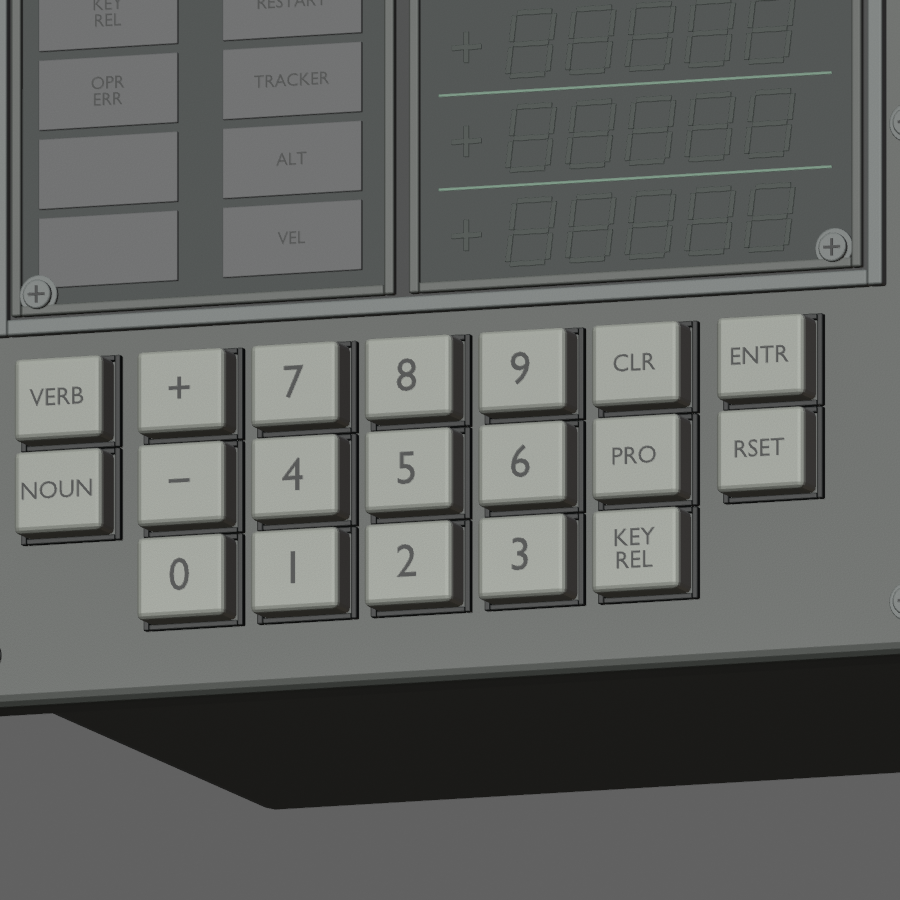
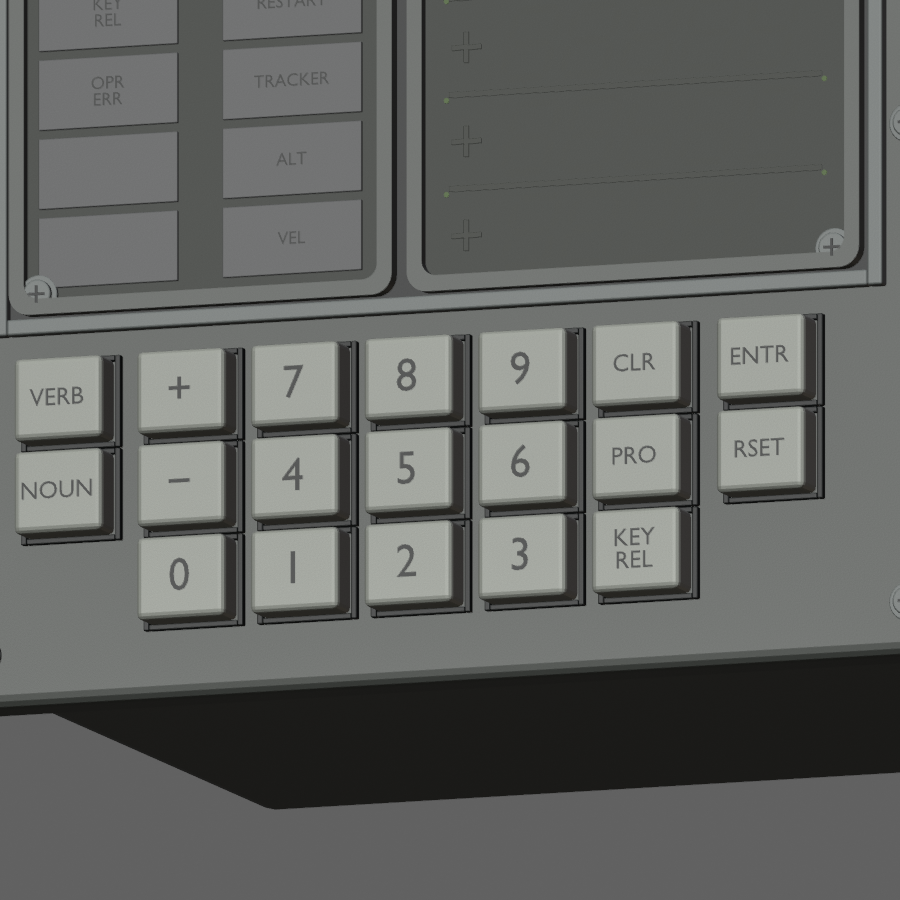
Refine DSKY emissive display and rounded bezels

Changed region(s): [[0.0622, 0.0, 0.9644, 0.3422], [0.0, 0.0, 0.0311, 0.3422], [0.7467, 0.0622, 0.9022, 0.0933]]

diff --git a/Assets/Cockpit/Components/DSKY/build.py b/Assets/Cockpit/Components/DSKY/build.py
@@ -62,16 +62,46 @@ def screw(name,x,y,z,parent):
  # Dark recessed-looking cross; visual approximation, not a certified screw specification.
  for i,sz in enumerate([(.0033,.00055,.00012),(.00055,.0033,.00012)]):
   box(name+'_Recess'+str(i),(x,y,z+.0008),sz,black,parent,.00006)
+def rounded_bezel(name,p,w,h,t,mat,parent):
+ # Continuous cast rim, four rounded corners; no seams between straight rails.
+ loops=[]
+ for z,inset in [(-.001,0),(.002,0),(.002,t),(-.001,t)]:
+  pts=[]; r=.004-inset*.35
+  for cx,cy,a in [(w/2-inset-r,h/2-inset-r,0),(-w/2+inset+r,h/2-inset-r,90),
+                  (-w/2+inset+r,-h/2+inset+r,180),(w/2-inset-r,-h/2+inset+r,270)]:
+   for n in range(9):
+    angle=math.radians(a+n*90/8)
+    pts.append(xyz((cx+r*math.cos(angle),cy+r*math.sin(angle),z)))
+  loops.extend(pts)
+ n=36; faces=[]
+ for a,b in [(0,1),(1,2),(2,3),(3,0)]:
+  for i in range(n):
+   j=(i+1)%n; faces.append((a*n+i,a*n+j,b*n+j,b*n+i))
+ mesh=bpy.data.meshes.new(name+'_Geometry');mesh.from_pydata(loops,[],faces);mesh.update()
+ o=bpy.data.objects.new(name,mesh);bpy.context.collection.objects.link(o)
+ finish(o,name,mat,parent,p)
+ # Recalculate outward normals for this closed ring.
+ bpy.ops.object.select_all(action='DESELECT');o.select_set(True);bpy.context.view_layer.objects.active=o
+ bpy.ops.object.mode_set(mode='EDIT');bpy.ops.mesh.select_all(action='SELECT');bpy.ops.mesh.normals_make_consistent(inside=False);bpy.ops.object.mode_set(mode='OBJECT')
+ return o
+
+def segment(name,sx,sy,length,thick,vertical,parent):
+ # Six-sided EL strokes, tapered ends and deliberate gaps; not rounded LCD bars.
+ a=length/2; b=thick/2
+ pts=[(-a+b,-b),(a-b,-b),(a,0),(a-b,b),(-a+b,b),(-a,0)]
+ if vertical: pts=[(-y,x) for x,y in pts]
+ verts=[xyz((x+sx+.24*(y+sy),y+sy,.0003)) for x,y in pts]
+ mesh=bpy.data.meshes.new(name+'_Geometry'); mesh.from_pydata(verts,[],[tuple(range(6))]);mesh.update()
+ o=bpy.data.objects.new(name,mesh);bpy.context.collection.objects.link(o);o.parent=parent;mesh.materials.append(phosphor)
+ return o
+
 def digit(parent,name,x,y,width=.010,height=.014):
- d=empty(name,parent,(x,y,0)); thick=.001
- positions=[(0,height/2,width-thick,thick),(width/2,height/4,thick,height/2-thick),
- (width/2,-height/4,thick,height/2-thick),(0,-height/2,width-thick,thick),
- (-width/2,-height/4,thick,height/2-thick),(-width/2,height/4,thick,height/2-thick),(0,0,width-thick,thick)]
- for letter,(sx,sy,sw,sh) in zip('ABCDEFG',positions):
-  box(name+'_'+letter,(sx,sy,.00025),(sw,sh,.0003),phosphor,d,.00012)
- for child in d.children:
-  for v in child.data.vertices: v.co.x += .12*v.co.z
-  child.location.x += .12*child.location.z
+ d=empty(name,parent,(x,y,0)); thick=.00155
+ horizontal=width-thick*.35; vertical=height/2-thick*.85
+ for letter,sx,sy,ln,vertical_axis in [('A',0,height/2,horizontal,False),('B',width/2,height/4,vertical,True),
+ ('C',width/2,-height/4,vertical,True),('D',0,-height/2,horizontal,False),
+ ('E',-width/2,-height/4,vertical,True),('F',-width/2,height/4,vertical,True),('G',0,0,horizontal,False)]:
+  segment(name+'_'+letter,sx,sy,ln,thick,vertical_axis,d)
  return d
 
 def build():
@@ -85,11 +115,11 @@ def build():
  steel=material('Fasteners',(.39,.42,.40),.8,.29)
  keys_mat=material('Keycap_ivory',(.72,.74,.65),0,.42)
  ink=material('Key_ink',(.018,.024,.019),0,.6)
- glass=material('Display_dark_filter',(.012,.032,.024),.05,.24)
- legend=material('Face_legend',(.35,.63,.43),0,.55,.20)
+ glass=material('Display_dark_filter',(.020,.032,.014),.12,.20)
+ legend=material('Face_legend',(.12,.25,.018),0,.55,.025)
  lampmat=material('Lamp_unpowered',(.23,.23,.23),0,.85)
- phosphor=material('Segments_unpowered',(.022,.052,.032),0,.48,.02)
- lit=material('EL_green_on',(.20,.85,.42),0,.4,.9)
+ phosphor=material('Segments_unpowered',(.018,.029,.009),0,.48,.005)
+ lit=material('EL_green_on',(.30,.95,.035),0,.38,1.8)
  white_on=material('Status_white_on',(.75,.86,.71),0,.4,.35)
  amber_on=material('Caution_amber_on',(.95,.58,.10),0,.4,.35)
  for m in [lit,white_on,amber_on]: m.use_fake_user=True
@@ -111,8 +141,8 @@ def build():
  frame('DSKY_Display_OuterBezel',(0,0,-.0002),.179,.122,.003,.003,steel,display)
  box('DSKY_Annunciator_Filter',(-.047,0,0),(.075,.112,.001),glass,display,.0015)
  box('DSKY_Numeric_Filter',(.040,0,0),(.088,.112,.001),glass,display,.0015)
- frame('DSKY_AlarmBezel',(-.047,0,.0008),.077,.115,.002,.002,face_mat,display)
- frame('DSKY_NumericBezel',(.040,0,.0008),.091,.115,.002,.002,face_mat,display)
+ rounded_bezel('DSKY_AlarmBezel',(-.047,0,.0008),.077,.115,.003,face_mat,display)
+ rounded_bezel('DSKY_NumericBezel',(.040,0,.0008),.091,.115,.003,face_mat,display)
  lamp_specs=[]
  for row in [5,6]:
   box('DSKY_Lamp_Blank_'+str(row),(-.066,.045-row*.015113,.0012),(.02794,.013462,.0008),lampmat,display,.0006)
@@ -133,15 +163,20 @@ def build():
   region=empty('DSKY_Readout_'+name,display,(x,y,.001))
   fields[name]={'path':'/DSKY_Mount/DSKY_Display_Mount/'+region.name,'positions':count,'sign':name.startswith('R')}
   if count==2:
-   text('DSKY_Label_'+name,name,(x,y+.012,.0014),.004,legend,display)
-   for n in range(2): digit(region,'DSKY_Digit_'+name+'_'+str(n),-.007+n*.014,0,.009,.013)
+   box('DSKY_LabelStrip_'+name,(x,y+.012,.0011),(.029,.0058,.0004),phosphor,display,.0002)
+   text('DSKY_Label_'+name,name,(x,y+.012,.0015),.0036,ink,display)
+   for n in range(2): digit(region,'DSKY_Digit_'+name+'_'+str(n),-.007+n*.014,0,.009,.014)
   else:
-   for n in range(5): digit(region,'DSKY_Digit_'+name+'_'+str(n),-.021+n*.012,0,.008,.012)
+   for n in range(5): digit(region,'DSKY_Digit_'+name+'_'+str(n),-.021+n*.012,0,.0085,.013)
    sign=empty('DSKY_Sign_'+name,region,(-.034,0,0))
    box('DSKY_Sign_'+name+'_Minus',(0,0,.00025),(.006,.001,.0003),phosphor,sign,.0001)
    box('DSKY_Sign_'+name+'_Plus',(0,0,.00025),(.001,.006,.0003),phosphor,sign,.0001)
   if name in ['R1','R2']:
-   box('DSKY_RegisterRule_'+name,(.040,y-.009,.0014),(.079,.0005,.0002),legend,display,.00005)
+   box('DSKY_RegisterRule_'+name,(.040,y-.009,.0014),(.075,.0011,.0002),phosphor,display,.00005)
+ box('DSKY_RegisterRule_Top',(.040,-.0015,.0014),(.075,.0011,.0002),phosphor,display,.00005)
+ # Small mask registration dots, visual-reference inference rather than new dimension claims.
+ for idx,(x,y) in enumerate([(.041,.049),(.041,.023),(.002,-.002),(.078,-.002),(.002,-.021),(.078,-.021),(.002,-.039),(.078,-.039)]):
+  cylinder('DSKY_MaskDot_'+str(idx),(x,y,.0013),.00055,.00012,legend,display,16)
  manifest_keys=[]
  for name,x,y in KEYS:
   pos=(x*I-W/2,y*I-H/2,.011)
@@ -231,6 +266,25 @@ def build():
  scene.render.filepath=str(OUT/'review'/'lighting-preview.png'); start=time.monotonic()
  bpy.ops.render.render(write_still=True); times['lighting-preview']=time.monotonic()-start
  for o,m in original: o.data.materials[0]=m
- (OUT/'review'/'render-cost.json').write_text(json.dumps({'engine':'Workbench; lighting preview Eevee','resolution':{'front':[900,900],'oblique':[900,900],'key-detail':[900,900],'lighting-preview':[720,720]},
+ root['binding_status']='STATIC_DISPLAY_PREVIEW_NOT_AGC'
+ # Fixed reference-inspired glyph sample; this is not a verb/noun interpreter.
+ preview={'PROG':['ACDEFG','ACDEFG'],'VERB':['ABCDEF','ACDEFG'],'NOUN':['ACDEFG','ABCDEF'],
+          'R1':['ABCDEF']*5,'R2':['ABCDEF']*5,'R3':['ABCDEF']*5}
+ for field,patterns in preview.items():
+  for index,active in enumerate(patterns):
+   for letter in 'ABCDEFG':
+    bpy.data.objects['DSKY_Digit_'+field+'_'+str(index)+'_'+letter].data.materials[0]=lit if letter in active else phosphor
+ for o in bpy.data.objects:
+  if o.type!='MESH': continue
+  if o.name.startswith(('DSKY_LabelStrip_','DSKY_RegisterRule_')): o.data.materials[0]=lit
+  if o.name.startswith('DSKY_Sign_'):
+   o.data.materials[0]=lit if o.name.endswith('_Minus') or o.name=='DSKY_Sign_R2_Plus' else phosphor
+ bpy.ops.object.select_all(action='DESELECT')
+ for o in [root]+list(root.children_recursive): o.select_set(True)
+ bpy.ops.wm.usd_export(filepath=str(OUT/'DSKY-DisplayPreview.usda'),**settings)
+ normalize_and_package(OUT/'DSKY-DisplayPreview.usda')
+ scene.render.filepath=str(OUT/'review'/'display-preview.png');start=time.monotonic()
+ bpy.ops.render.render(write_still=True);times['display-preview']=time.monotonic()-start
+ (OUT/'review'/'render-cost.json').write_text(json.dumps({'engine':'Workbench; lighting preview Eevee','resolution':{'front':[900,900],'oblique':[900,900],'key-detail':[900,900],'lighting-preview':[720,720],'display-preview':[720,720]},
  'seconds':times,'peak_memory':'not measured','machine':'zacbookpro.local'},indent=2)+'\n')
 if __name__=='__main__': build()

diff --git a/Assets/Cockpit/Components/DSKY/validate.py b/Assets/Cockpit/Components/DSKY/validate.py
@@ -46,7 +46,7 @@ report['source']={'meshes':len(meshes),'triangles':sum(len(o.data.loop_triangles
 # Flat text is intentionally open geometry; every solid must have nonzero polygon normals.
 check(all(p.area>1e-14 and p.normal.length>.9 for o in meshes for p in o.data.polygons),'No zero-area faces or invalid normals')
 report['exports']={}
-for filename in ['DSKY.usdz','DSKY-LightingPreview.usdz']:
+for filename in ['DSKY.usdz','DSKY-LightingPreview.usdz','DSKY-DisplayPreview.usdz']:
  stage=Usd.Stage.Open(str(OUT/filename)); rootprim=stage.GetPrimAtPath('/DSKY_Mount')
  check(bool(rootprim) and stage.GetDefaultPrim()==rootprim,filename+' default root')
  check(UsdGeom.GetStageUpAxis(stage)=='Y' and UsdGeom.GetStageMetersPerUnit(stage)==1,filename+' Y up and meters')
@@ -66,7 +66,7 @@ for filename in ['DSKY.usdz','DSKY-LightingPreview.usdz']:
  check(all(UsdShade.MaterialBindingAPI(p).ComputeBoundMaterial()[0] for p in usdmeshes),filename+' all meshes material bound')
  check(all(all(n==3 for n in UsdGeom.Mesh(p).GetFaceVertexCountsAttr().Get()) for p in usdmeshes),filename+' triangulated')
  emissive=[p for p in stage.Traverse() if p.IsA(UsdShade.Shader) and p.GetAttribute('inputs:emissiveColor').Get() and sum(p.GetAttribute('inputs:emissiveColor').Get())>0]
- check(len(emissive)>=(3 if 'Preview' in filename else 1),filename+' emissive Preview Surface shaders')
+ check(len(emissive)>=(3 if 'LightingPreview' in filename else 1),filename+' emissive Preview Surface shaders')
  checker=UsdUtils.ComplianceChecker(arkit=False,skipARKitRootLayerCheck=True)
  checker.CheckCompliance(str(OUT/filename))
  errors=checker.GetErrors(); failed=checker.GetFailedChecks()

diff --git a/Assets/Cockpit/Components/DSKY/HANDOFF.md b/Assets/Cockpit/Components/DSKY/HANDOFF.md
@@ -20,13 +20,14 @@ Housing depth, rear details, bevels, fastener sizes, display subdivision and typ
 
 ## Delivered revision
 
-- Exact component commit: `85c072502a087aadf97c118e5de8bad9a2b6ba5d`. The following handoff-only commit records this immutable asset revision; no asset changes in that follow-up.
+- Exact component commit: REFINEMENT_COMMIT_PENDING. Previous delivered asset revision was `85c072502a087aadf97c118e5de8bad9a2b6ba5d`; this display refinement started at `d3cd89721f5b788ebca1984c90c029a42e9cc010`.
 - Blender: 5.2.1 LTS, build 9e2066aef7ef; no add-ons. Native smoke check: Apple Swift 6.3.3, macOS RealityKit.
 - Editable source: `DSKY.blend`; reproducible builder: `build.py`; USD coordinate bake/package: `usd_pipeline.py`.
 - Neutral exports: `DSKY.usda`, `DSKY.usdc`, `DSKY.usdz`. Lighting exports: `DSKY-LightingPreview.usda`, `.usdc`, `.usdz` (STATIC lamp-test lookdev, never live output).
 - Materials are mesh-bound USD Preview Surface PBR, with separately addressable phosphor, lamp backgrounds, fixed legends and key ink. On-state materials retained in the neutral Blender source; lighting export demonstrates them. Zero texture dependencies; built-in font converted to geometry. Relative `//review/front.png` output setting; no linked libraries.
 - Settings: `export-settings.json`. Blender exports triangulated Y-up, meter-based USD with separate parent transforms and Preview Surface. `usd_pipeline.py` bakes the exporter's rotation into every local transform, mesh point and normal, then emits binary USDC and a self-contained USDZ. Root transform is identity after baking, not just root scale. No review cameras/lights are exported.
-- Review images: `review/front.png`, `review/oblique.png`, `review/key-detail.png` (900 square Workbench); `review/lighting-preview.png` (720 square Eevee, STATIC all-segments display).
+- Additional selective lookdev export: `DSKY-DisplayPreview.usda`, `.usdc`, `.usdz` (STATIC 66/06/60 and signed zeros, annunciators off; no AGC execution).
+- Review images: `review/front.png`, `review/oblique.png`, `review/key-detail.png` (900 square Workbench); `review/lighting-preview.png` (720 square Eevee, STATIC all-segments display), plus `review/display-preview.png` (720 square Eevee, selective static readout).
 
 ### Reproduce
 
@@ -54,20 +55,21 @@ Blender requires host execution on this machine: sandboxed startup crashed; the 
 
 ## Validation
 
-- **171 automated checks passed**, detailed in `validation.json`: clean Blender reopen, no missing external dependencies, unique names, all 19 exact centers and direct parents, mesh scales, nondegenerate faces/normals, root transform, dimension budget, separate regions, material bindings, emissive shader inputs, OpenUSD compliance and clean USDZ reimport.
-- Source complexity: 70,135 triangles, 372 meshes, 10 used neutral materials, zero textures. Extra lookdev material states are separate. No scene budget was specified; integration should profile draw calls before optimizing.
+- **219 automated checks passed**, detailed in `validation.json`: clean Blender reopen, no missing external dependencies, unique names, all 19 exact centers and direct parents, mesh scales, nondegenerate faces/normals, root transform, dimension budget, separate regions, material bindings, emissive shader inputs, OpenUSD compliance and clean USDZ reimport.
+- Source complexity: 44,415 triangles, 378 meshes, 10 used neutral materials, zero textures. Extra lookdev material states are separate. No scene budget was specified; integration should profile draw calls before optimizing.
 - Native macOS RealityKit load **passed**: all 19 direct keys, positions, required parents and scale (`native-validation.json`, reproducible `validate_native.swift`). This is not an app build or on-device interaction check.
 - Final front, oblique, key-detail and lit images visually inspected. Corrected thin-fastener degenerate bevels, lower-register bezel occlusion and overexposed preview lighting before final acceptance. No measured camera match or photometric calibration claimed.
-- LFS verification: all seven Blender/USD asset files contain real local asset bytes; each staged pointer OID matches its local SHA-256. Scoped `.gitattributes` adds USDC coverage; existing root rules cover Blender/USDA/USDZ.
-- OpenUSD compliance: zero errors, failed checks or warnings for both packages. Reimport preserved key/face parent paths and materials. Native shader visual appearance in RCP remains untested.
+- LFS verification: all ten Blender/USD asset files contain real local asset bytes; each staged pointer OID matches its local SHA-256. Scoped `.gitattributes` adds USDC coverage; existing root rules cover Blender/USDA/USDZ.
+- OpenUSD compliance: zero errors, failed checks or warnings for all three packages. Reimport preserved key/face parent paths and materials. Native shader visual appearance in RCP remains untested.
 - Reality Composer Pro GUI, visionOS app, gaze/hover/pinch, PRO runtime behavior, frame timing and Vision Pro hardware: **not tested**; coordinator-owned gates.
-- Review wall time per image (seconds): front 0.215, oblique 0.094, key-detail 0.091, lighting-preview 0.401. Peak memory not measured. Machine zacbookpro.local; no heavy render/bake.
+- Review wall time per image (seconds): front 0.199, oblique 0.078, key-detail 0.075, lighting-preview 0.495, display-preview 0.512. Peak memory not measured. Machine zacbookpro.local; no heavy render/bake.
 - Known gaps: exact Gorton lettering, original key surface sculpt, historical key travel, exact fastener and flange contours, numeric optical stack, calibrated emission and COMP ACTY white/green disagreement. Source drawing stagger differs from required app key centers; retained compatibility and proposed coordinator reconciliation. This is a detailed external facade delivery with explicit fidelity limits, not a certified flight-unit reconstruction.
 
 ### Export SHA-256
 
[5 lines of base64/hex data omitted]
 
 ## Integration acceptance
 
@@ -79,3 +81,7 @@ Coordinator fills after review:
 - Follow-up work: import in RCP, apply accepted cabin placement, bind collision/input/hover per key and live snapshot display, preserve PRO release/cancel, eliminate duplicate procedural controls, validate on Vision Pro. Reconcile historical key staggering only through a coordinated geometry-contract change.
 
 No push or merge was performed. All delivered changes are confined to this component directory.
+
+## Display refinement
+
+User-requested refinement uses the supplied craft-model image solely as a visual reference (`evidence/user-display-style-reference.png`); primary evidence and frozen key/envelope dimensions remain unchanged. Added heavier tapered six-sided segments, ~13.5° slant, stronger yellow-green emission, backlit label strips with dark text, thicker register rules, mask dots and continuous rounded bezels. Segment names, separate lamps, key hierarchy and press transforms are preserved. Exact glow, hue and photometry remain renderer-dependent; no RCP or Vision Pro appearance claim. Lamp backgrounds are emissive and individually addressable, but still require coordinator-owned live AGC material/state binding. Both the lit-lamp view and selective static readout were visually reviewed.

diff --git a/Assets/Cockpit/Components/DSKY/INTEGRATION.md b/Assets/Cockpit/Components/DSKY/INTEGRATION.md
@@ -26,10 +26,16 @@ Read `snapshot.agc.dsky` through the existing session; do not parse a second ver
 | Named lamps | `indicatorIsOn(id)` or `lampTest`; IDs in bindings.json |
 | Two blank lower-left cells | No runtime binding; spare cells, remain blank |
 
-The neutral export keeps all segments faintly visible as physical phosphor. Switch their assigned material (or visibility) for live output. LightingPreview supplies `DSKY_EL_green_on`, `DSKY_Status_white_on`, `DSKY_Caution_amber_on`; their shader emission is authored in USD Preview Surface. Fixed numeric legends have independent modest emission. Lamp characters remain opaque black while their background lights. Green COMP ACTY is a provisional lookdev choice: the dossier's white/green source conflict remains unresolved. Engine strengths are not measured luminance; the primary lamp specification is 15 ±3 foot-lamberts, requiring renderer/device calibration.
+The neutral export keeps all segments faintly visible as physical phosphor. Switch their assigned material (or visibility) for live output. LightingPreview supplies `DSKY_EL_green_on`, `DSKY_Status_white_on`, `DSKY_Caution_amber_on`; their shader emission is authored in USD Preview Surface. Numeric label strips and register rules have separately swappable phosphor materials; the label characters stay dark. Lamp characters remain opaque black while their background lights. Green COMP ACTY is a provisional lookdev choice: the dossier's white/green source conflict remains unresolved. Engine strengths are not measured luminance; the primary lamp specification is 15 ±3 foot-lamberts, requiring renderer/device calibration.
 
 The current procedural display mount z=0.010 m and this asset's region placement are provisional surface locations. Bind to the named regions instead of overlaying the existing whole-panel attachment blindly; that could occlude the modeled lamp/numeric separation.
 
 ## Coordinator acceptance
 
 Required before claiming interaction: import in RCP, inspect materials and hierarchy, native load on accepted app/AGC commits, all 19 key dispatches, neighboring-key selection, single-key hover, key spring return, PRO release/cancellation, blank/flashing digits, signs, all lamps/lamp test, no duplicate procedural geometry, and on-device label readability. Measure scene memory and frame timing with the full cockpit and terrain. No runtime or Vision Pro acceptance is claimed here.
+
+## Refined display preview
+
+`DSKY-DisplayPreview.usdz` is an additional static appearance example (66 / 06 / 60, signed zero registers, annunciators off). It preserves the same key and region hierarchy. It is not AGC-driven. The original `DSKY-LightingPreview.usdz` remains the all-lamps/all-segments material test.
+
+`DSKY_LabelStrip_PROG/VERB/NOUN` and `DSKY_RegisterRule_*` are separate phosphor-backed meshes. Drive their light level with display power/brightness alongside active segments. The label text is dark, fixed geometry. Tapered segments retain the original A–G object names and indices. Lamp backgrounds can switch materials independently; shared authoring materials do not imply shared runtime state. Keep lamp text black in either state. Emission inputs are present in USDZ, but actual glow and scene illumination depend on the native renderer; neither automatic AGC binding nor a particular bloom effect is baked into USDZ.

diff --git a/Assets/Cockpit/Components/DSKY/evidence/comparison.md b/Assets/Cockpit/Components/DSKY/evidence/comparison.md
@@ -27,3 +27,15 @@ Numeric field order agrees with the outline: COMP ACTY/PROG, VERB/NOUN, three si
 Inspected baseline dossier originals `AS11-36-5389HR.jpg` and `69-H-135.jpg` directly. The former supports gray/olive painted panel and dark instrument surround relationships, but strong window cast, crop and focus prevent DSKY-specific color measurement. The latter supports separate lit markings against a dark surrounding panel, but the DSKY is outside the useful view and monochrome exposure gives no hue. They are context comparisons, **not matched-camera facade validation**. No later-mission closeout color was substituted as Apollo 11 calibration. Keycap ivory, housing hue, fastener details, bevels, display glass roughness and rear closure remain visual approximations.
 
 Archive source: https://archive.org/download/AgcApertureCardsBatchKeithley/AgcApertureCardsBatchKeithley.pdf ; indexed at https://www.ibiblio.org/apollo/AgcDrawingIndex.html . Saved evidence PNGs are full-page reference renders, not dimensionally calibrated images. Original archive PDF hash is recorded in sources.json; the large download stays in ignored scratch.
+
+## Display refinement from user reference (2026-09-08)
+
+![User-supplied craft-model reference](user-display-style-reference.png)
+
+The user supplied this image to request a better-looking display. It is visibly labeled a craft model, so it is a styling reference rather than a primary measurement or Apollo 11 flight-hardware photograph. Its printed instructions are image content, not instructions to this task. Source URL/maker are unknown. We preserve the original pixels here for review, not for use as a model texture.
+
+Changes inspired by the reference: heavier tapered six-sided electroluminescent strokes, approximately 13.5° right slant, yellow-green emission, backlit PROG/VERB/NOUN label strips with dark lettering, thicker horizontal rules, continuous rounded window bezels and small mask dots. Exact chromaticity, glyph geometry, dots and label-strip dimensions remain visual approximations. The frozen face/key interface is unchanged. No craft-model key colors or staggered key positions were substituted.
+
+![Updated static readout preview](../review/display-preview.png)
+
+`DSKY-DisplayPreview.usdz` shows a fixed 66 / 06 / 60 and signed-zero pattern, chosen only to compare illuminated strokes and inactive annunciators. It does not execute a program or represent an AGC snapshot. `DSKY-LightingPreview.usdz` still demonstrates every labeled indicator illuminated independently. `DSKY.usdz` remains the neutral integration asset. Numeric lines and label backgrounds now share the swappable phosphor material group; label text remains opaque. The model emits through USD Preview Surface; render/device exposure and any glow treatment require RealityKit calibration.
